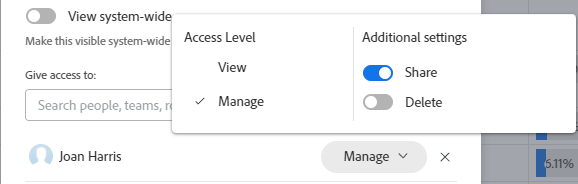
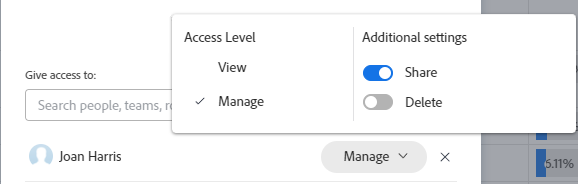
NW-Help Site Requests

Changed region(s): [[0.0311, 0.0272, 0.3114, 0.1359], [0.0311, 0.1902, 0.3114, 0.2446]]

diff --git a/help/quicksilver/reports-and-dashboards/reports/custom-view-filter-grouping-samples/report-budgeted-hour.md b/help/quicksilver/reports-and-dashboards/reports/custom-view-filter-grouping-samples/report-budgeted-hour.md
@@ -11,18 +11,14 @@ exl-id: 2c0b60a6-fae4-4b29-8243-2a7f7d1f574b
 # Report: Budgeted Hour
 
 <!--
-<p data-mc-conditions="QuicksilverOrClassic.Draft mode">(NOTE: From&nbsp;Alina: This is my article, but since it's about building a report, it is in the Reporting section. Please don't remove it -it's linked to Resouce Management and it is super important.) </p>
+<p data-mc-conditions="QuicksilverOrClassic.Draft mode">(NOTE: From&nbsp;Alina: This is my article, but since it's about building a report, it is in the Reporting section. Please don't remove it -it's linked to Resource Management and it is super important.) </p>
 -->
 
 When you want to share Budgeted Hour information with other users who do not have access to the Resource Planner, you can do so by building a Budgeted Hour report. You can then share the report with them.
 
-<!--
-<p data-mc-conditions="QuicksilverOrClassic.Draft mode">(NOTE: This info is also added and drafted in the article "View Budget Hours in a report" in the Resource Planning section. Consider deleting this article?!)</p>
--->
-
 >[!IMPORTANT]
 >
->Budgeted Hours are updated every hour in the Adobe Workfront database. Refreshing the report does not necessarily refresh the hour information in it. You can view the time lapsed since the last update in the upper-right corner of every Budgeted Hour report. Refreshing the report refreshes the information in it only when there has been more than one hour since the last update.
+>Budgeted Hours are normally updated every hour (infrequently, it may take a maximum of three hours) in the Adobe Workfront database. Refreshing the report does not necessarily refresh the hour information in it. You can view the time lapsed since the last update in the upper-right corner of every Budgeted Hour report. Refreshing the report refreshes the information in it only when there has been more than one hour since the last update.
 >
 >![](assets/budgeted-hour-report-time-sync-warning-350x74.png)>
 

diff --git a/help/quicksilver/review-and-approve-work/proofing/proofing-overview/document-reprocessing-for-proofing.md b/help/quicksilver/review-and-approve-work/proofing/proofing-overview/document-reprocessing-for-proofing.md
@@ -26,7 +26,7 @@ All font text is extracted in its layer as long as you include the correct file 
 * Because PDF files are the most standardized and reliable, we recommend converting documents to this format&nbsp;before uploading them.
 * Use the latest possible version of your software to create your original documents.
 * If you are not sure which settings to use when saving or exporting your documents in the application where you created them, use the default settings.&nbsp;
-* Make sure to embed all the fonts you use in a document inside it. If you use custom fonts, your document will display those fonts only on machines where they are installed.
+* Make sure to embed all the fonts you use in a document inside it. If you use custom fonts, your document will display those fonts only on machines where they are installed. However, because custom fonts are not included in the proof system, it is not able to use custom fonts when generating the file, even when embedded.
 * If possible, place all text elements in the top layers of your design. This should ensure that your text is extracted and selectable in the Text annotation tool.
 * Place all of your document's images and elements inside it. If you link them from the outside sources, such as another file on your computer, they won't display in the proof you create.
 * Create your document&nbsp;using the standards recommended for its type and optimize it before uploading it. This will ensure that the document will open successfully in the proofing viewer, as well as in all other applications and platforms.

diff --git a/help/quicksilver/reports-and-dashboards/reports/reporting-elements/modify-column-width-order.md b/help/quicksilver/reports-and-dashboards/reports/reporting-elements/modify-column-width-order.md
@@ -81,6 +81,12 @@ You can temporarily modify the width and order of columns in a list without edit
 Consider the following when temporarily resizing and ordering columns:
 
 * When resizing columns, the new column sizes are stored in your browser's local storage, and are saved by default. Using a different browser or clearing your cache or browsing data results in column sizes being reverted to the default. Refreshing your page keeps the changes you make to the width of the columns.
+
+>[!NOTE]
+> 
+>Column widths are limited by the size of the browser window; if the page is refreshed, columns will be reduced in width until all columns can fit in the window without horizontally scrolling. To force a column to remain wider than the browser will fit, you must set the column's width in text mode as described in [Modify width and order of columns permanently](#modify-width-and-order-of-columns-permanently) and avoid manually adjusting any column widths by dragging their borders.
+>
+
 * When reordering columns, the order you choose is maintained only until you navigate away from the list, or you refresh the browser page. After navigating away from the list or refreshing the browser page, columns return to their default order.
 * For optimal performance, the columns you are reordering should not have more than 100 items in the list.
 * When you resize columns, your changes apply only to the view you are currently using and are visible only to you. Sharing a view with another user does not share the column sizes that you have defined.

diff --git a/help/quicksilver/product-announcements/product-releases/product-releases.md b/help/quicksilver/product-announcements/product-releases/product-releases.md
@@ -28,8 +28,8 @@ For information on helping your organization adjust smoothly to new releases, se
    <td> <p>Releases in 2024</p> 
     <ul> 
     <li> <p><a href="/help/quicksilver/product-announcements/product-releases/24-q1-release-activity/24-q1-release-overview.md" class="MCXref xref" xrefformat="{para}">First Quarter 2024 release overview</a> </p> </li>
-      <li> <p><a href="/help/quicksilver/product-announcements/product-releases/24-q1-release-activity/24-q1-release-overview.md" class="MCXref xref" xrefformat="{para}">Second Quarter 2024 release overview</a> </p> </li>
-   <td> <ul>    <li> <p><a href="/help/quicksilver/product-announcements/product-releases/24-q2-release-activity/24-q2-release-overview.md" class="MCXref xref" xrefformat="{para}">Adobe Workfront Fusion release activity</a> </p> </li> </ul>   </td> 
+      <li> <p><a href="/help/quicksilver/product-announcements/product-releases/24-q2-release-activity/24-q2-release-overview.md" class="MCXref xref" xrefformat="{para}">Second Quarter 2024 release overview</a> </p> </li>
+   <td> <ul>    <li> <p><a href="../../product-announcements/product-releases/fusion-release-activity/fusion-release-activity.md" class="MCXref xref" xrefformat="{para}">Adobe Workfront Fusion release activity</a> </p> </li> </ul>   </td> 
   <tr data-mc-conditions=""> 
    <td> <p>Releases in 2023</p> 
     <ul> 

diff --git a/help/quicksilver/administration-and-setup/manage-workfront/security/configure-security-preferences.md b/help/quicksilver/administration-and-setup/manage-workfront/security/configure-security-preferences.md
@@ -75,7 +75,7 @@ You must have the following access to perform the steps in this article:
      </tr> 
      <tr> 
       <td role="rowheader">Enable the use of session information when creating External Page URLs</td> 
-      <td> <p>Allows users to use the Session ID information of a site when adding an External Page to a Dashboard.</p> <p>For more information about adding External Pages to a Dashboard, see <a href="../../../reports-and-dashboards/dashboards/creating-and-managing-dashboards/embed-external-web-page-dashboard.md" class="MCXref xref">Embed an external web page in a dashboard</a>.</p> </td> 
+      <td> <p>Allows users to use the Session ID information of a site when adding an External Page to a Dashboard.</p> <p>This option is insecure and off by default. It is recommended to use OAuth for integrations instead. <link to oauth></p> <p>For more information about adding External Pages to a Dashboard, see <a href="../../../reports-and-dashboards/dashboards/creating-and-managing-dashboards/embed-external-web-page-dashboard.md" class="MCXref xref">Embed an external web page in a dashboard</a>.</p> </td> 
      </tr> 
      <tr> 
       <td role="rowheader">Let people use Workfront's mobile applications and the <strong>Workfront</strong> Outlook Add-In</td> 

diff --git a/help/quicksilver/reports-and-dashboards/reports/reporting-elements/share-filter-view-grouping.md b/help/quicksilver/reports-and-dashboards/reports/reporting-elements/share-filter-view-grouping.md
@@ -111,14 +111,7 @@ Share a filter using the standard builder interface:
 
    The Filter sharing box displays.
 
-1. Enable the **View system-wide** setting. This gives anyone in Workfront permission to view the filter.
-   
-   >[!IMPORTANT]
-   >
-   >Use this setting with caution. Adding many filters for all users will clutter the filter experience and make filters harder to find.
-   
-   Or
-   Start typing the names of users, teams, roles, groups, or companies that you want to share with in the **Give access to** field.
+1. Start typing the names of users, teams, roles, groups, or companies that you want to share with in the **Give access to** field.
 
    ![Filter sharing box](assets/new-filters-share-filter.png)
 

diff --git a/help/quicksilver/reports-and-dashboards/dashboards/creating-and-managing-dashboards/embed-external-web-page-dashboard.md b/help/quicksilver/reports-and-dashboards/dashboards/creating-and-managing-dashboards/embed-external-web-page-dashboard.md
@@ -125,6 +125,11 @@ For information on creating dashboards, see [Create a dashboard](../../../report
      For more information about system security preferences, see [Configure system security preferences](../../../administration-and-setup/manage-workfront/security/configure-security-preferences.md).  
      ![external_page_with_session_id_example.png](assets/external-page-with-session-id-example-350x134.png)
 
+      >[!WARNING]
+      >
+      >Using the SessionID is insecure and not recommended.
+      >
+
    * **Height**: Type a number greater than 0 to define the space that the external page occupies on the dashboard. The default height is 500. 
 
 1. Click **Save**.  

diff --git a/help/quicksilver/reports-and-dashboards/reports/creating-and-managing-reports/add-chart-report.md b/help/quicksilver/reports-and-dashboards/reports/creating-and-managing-reports/add-chart-report.md
@@ -140,6 +140,10 @@ To add a **Bar** chart to your report:
 
 1. Click **Save + Close** to save the chart and the report.
 
+>[!IMPORTANT]
+>
+>Limit bar charts to 23 or fewer bars, as bar charts that include more than 23 bars will not properly display all bar labels.
+
 ### Pie chart {#pie-chart}
 
 To add a **Pie** chart to your report:
